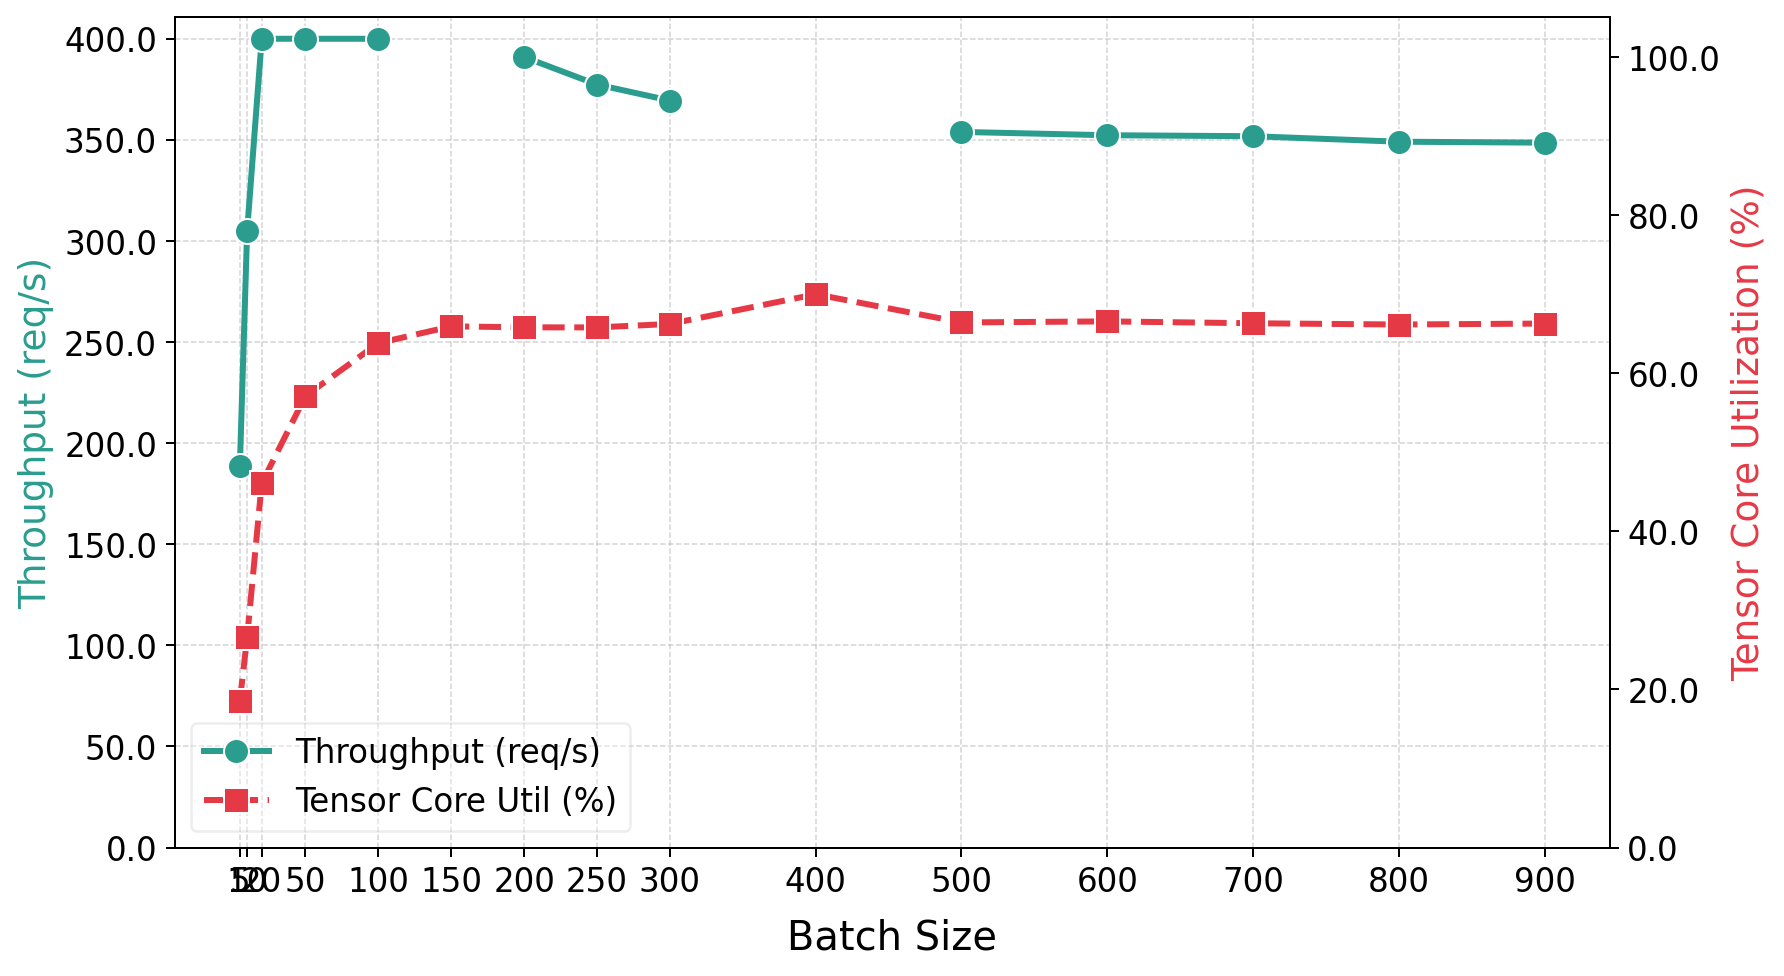
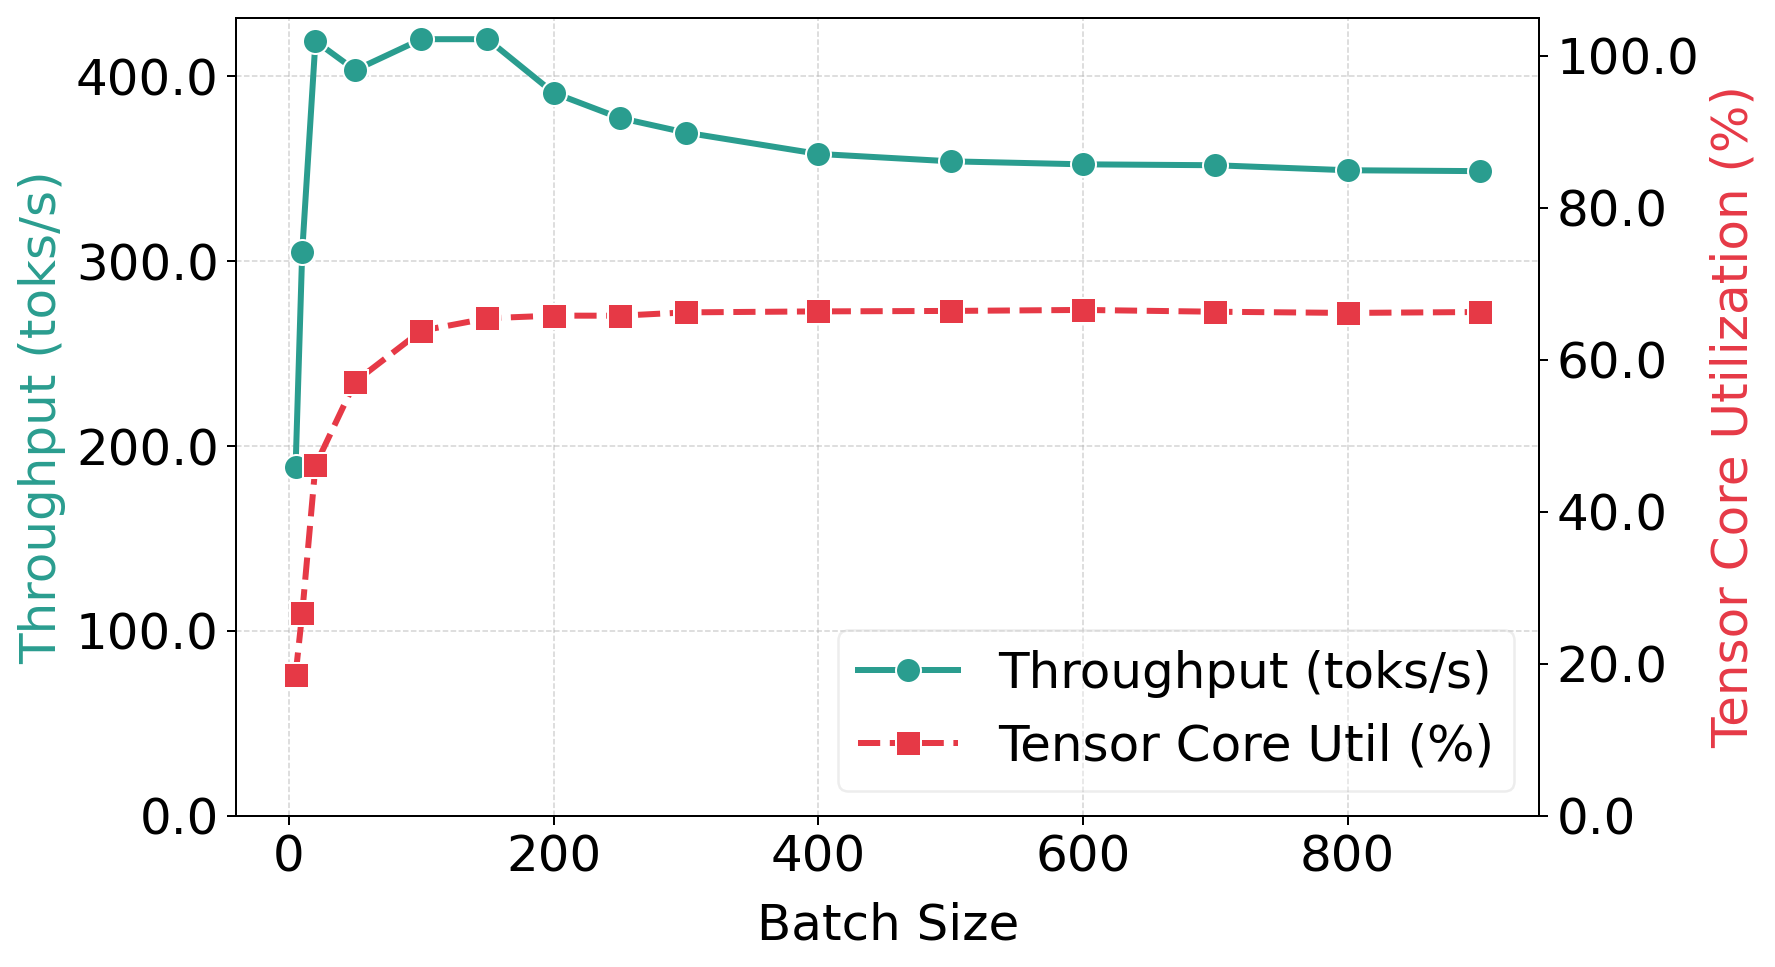
batch size plots

diff --git a/code/vllm/batch_size_logs/plot.py b/code/vllm/batch_size_logs/plot.py
@@ -201,7 +201,11 @@ def _finish(fig, ax_l, ax_r,
     # Combined legend
     lines  = ax_l.get_lines() + ax_r.get_lines()
     labels = [legend_l, legend_r]
-    ax_l.legend(lines, labels, fontsize=20, framealpha=0.35, loc="best")
+    if "throughput" in legend_l.lower():
+        loc = "lower right"
+    else:
+        loc = "center right"
+    ax_l.legend(lines, labels, fontsize=20, framealpha=0.35, loc=loc)
 
     plt.tight_layout()
     fig.savefig(outpath, dpi=DPI, bbox_inches="tight")
@@ -245,8 +249,7 @@ def plot_throughput_tensor(data: dict, out_dir: str) -> None:
     ax_r.set_ylim(0, 105)
     ax_r.yaxis.set_major_formatter(ticker.FormatStrFormatter("%.1f"))
 
-    ax_l.set_xticks(bs_vals)
-    ax_l.set_xticklabels([str(b) for b in bs_vals])
+    ax_l.xaxis.set_major_locator(ticker.MaxNLocator(nbins=6))
 
     _finish(fig, ax_l, ax_r,
             xlabel   = "Batch Size",
